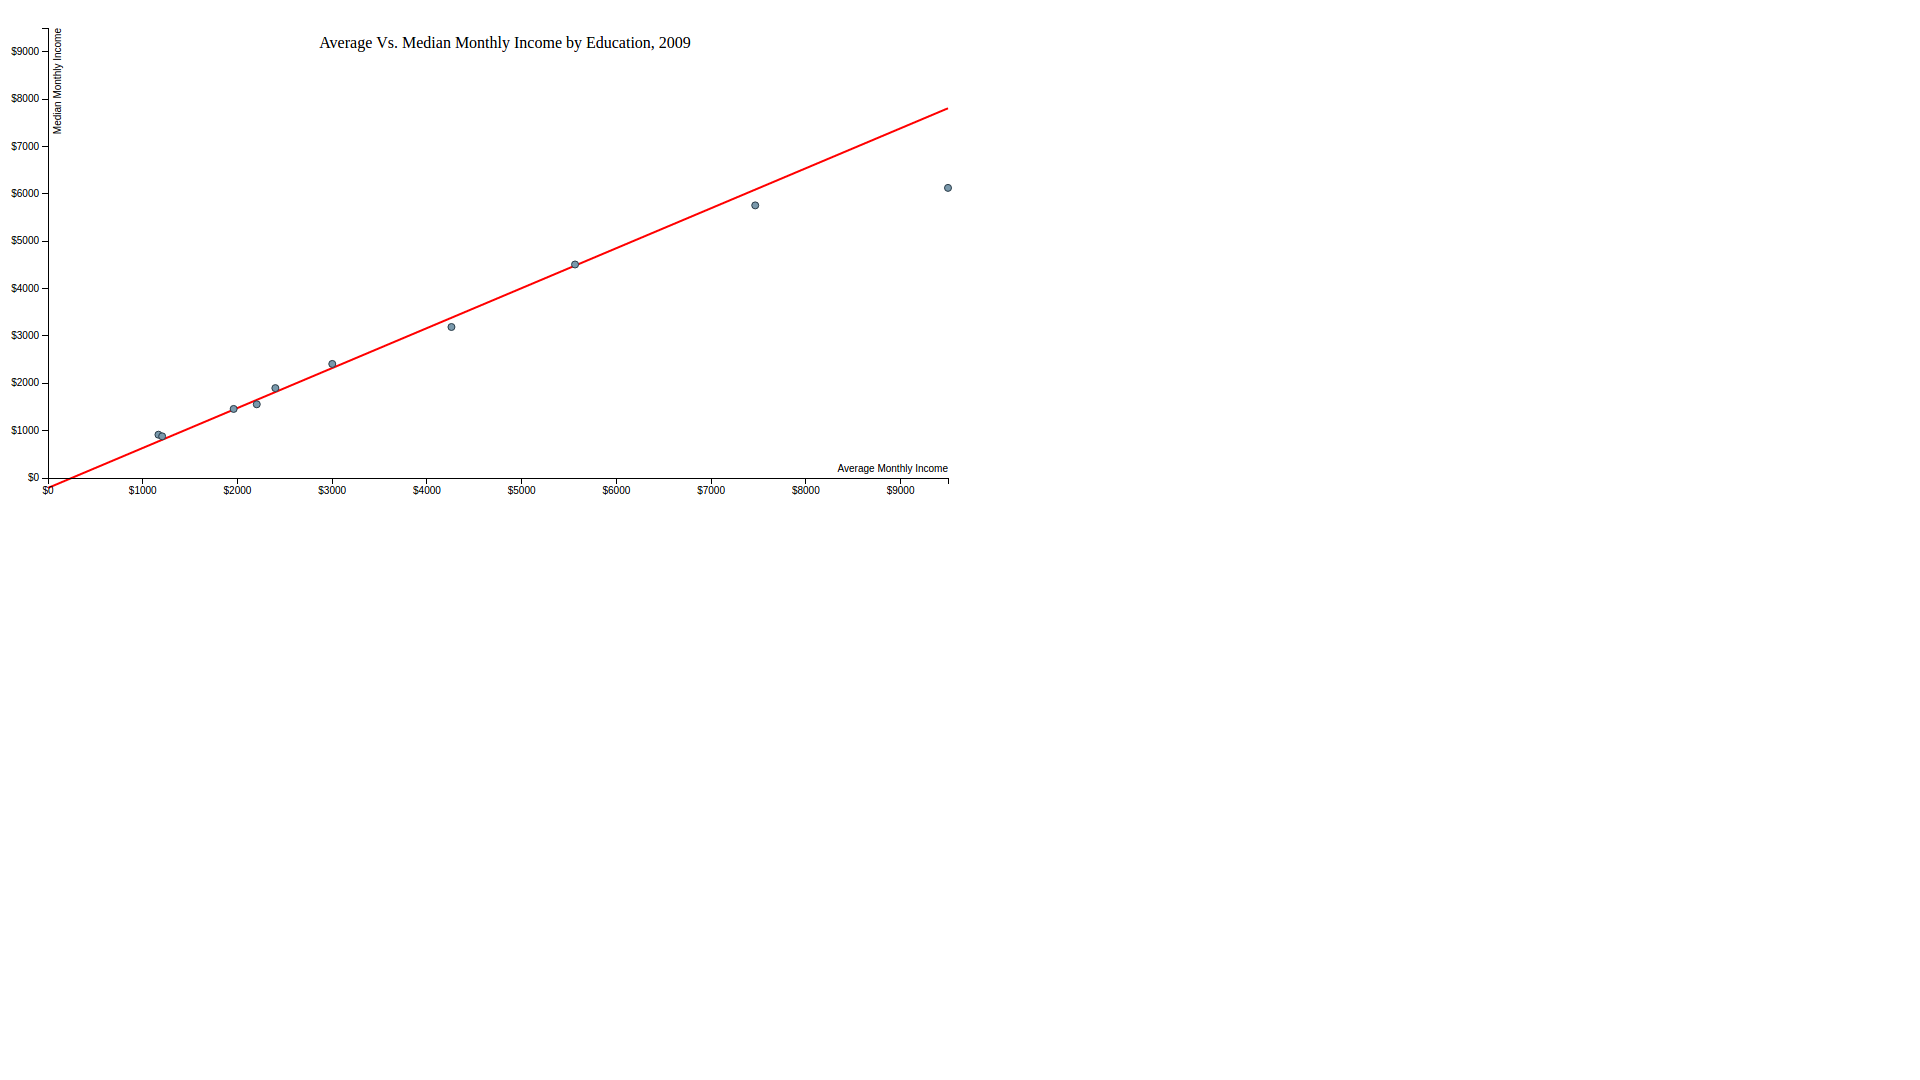
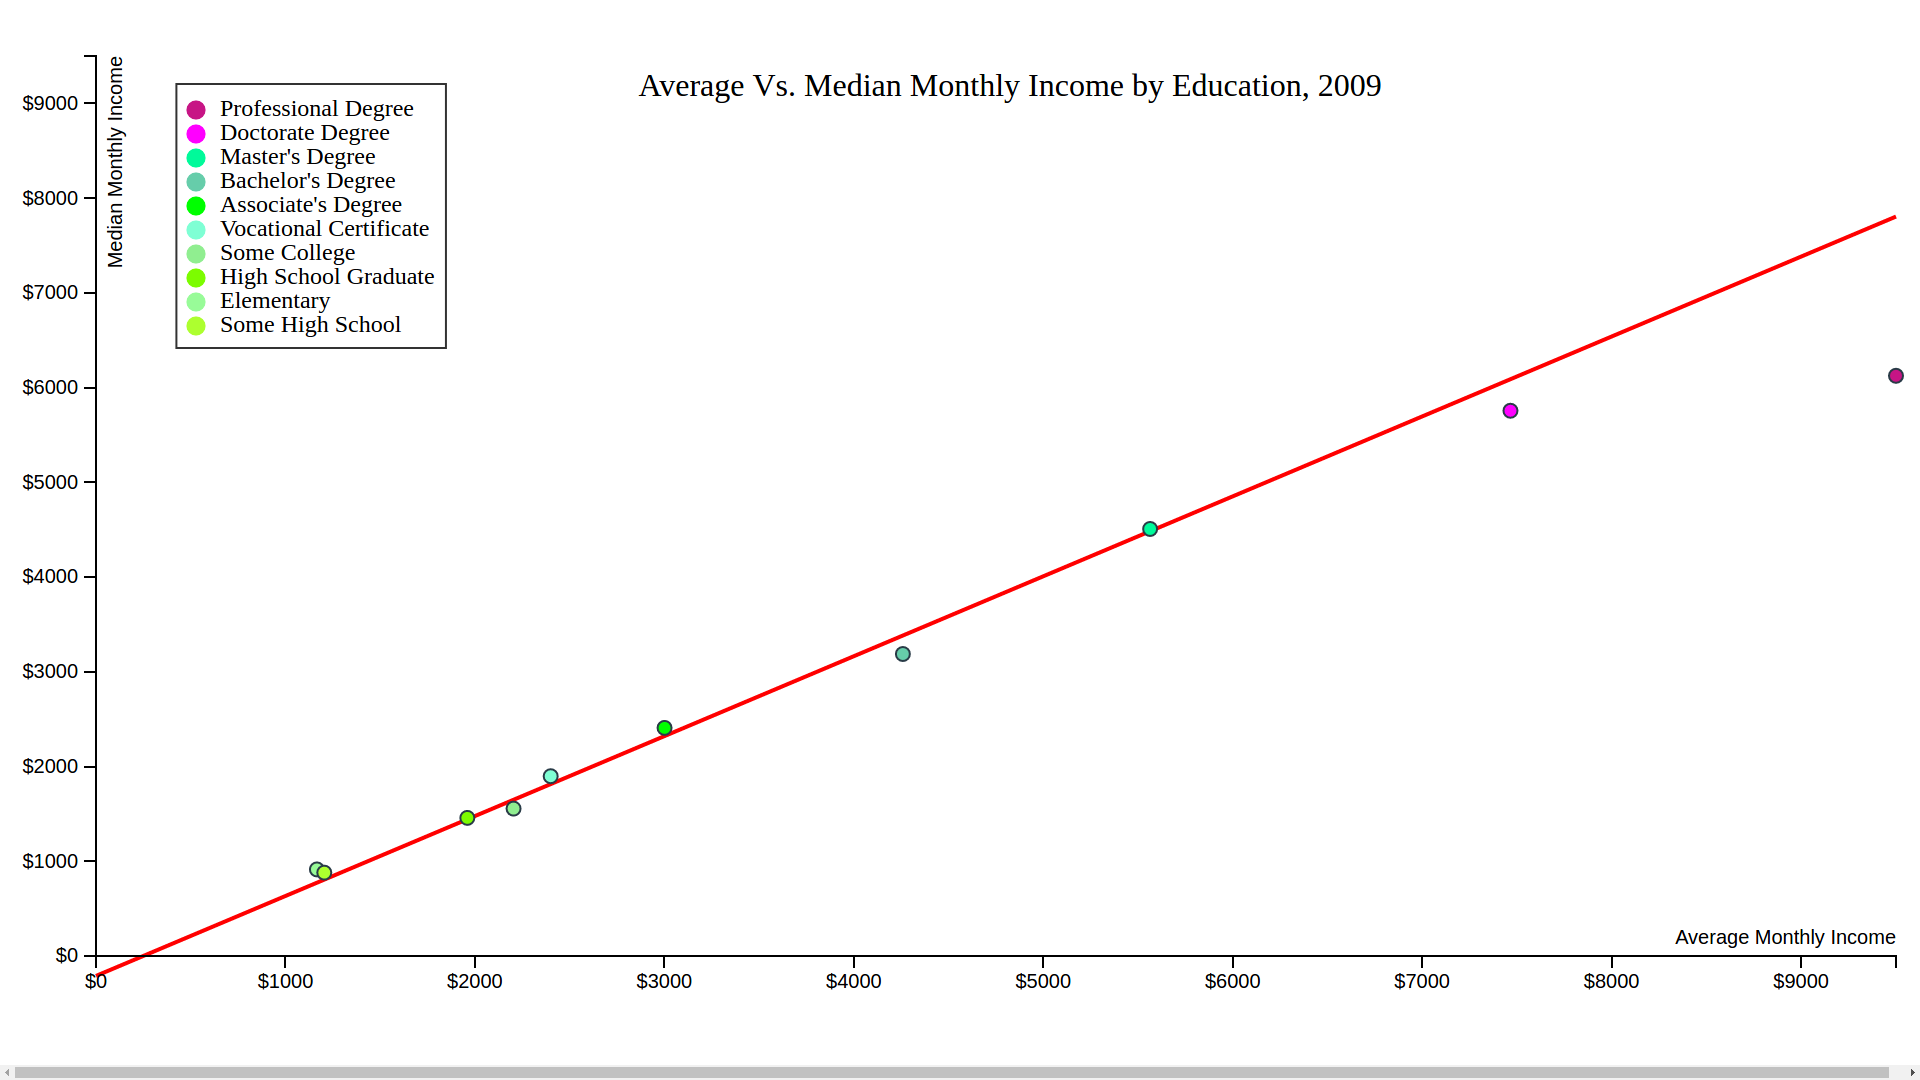
Described correlations. Images enlarged.

diff --git a/d3.legend.js b/d3.legend.js
@@ -1,0 +1,55 @@
+// d3.legend.js 
+// (C) 2012 ziggy.jonsson.nyc@gmail.com
+// MIT licence
+
+(function() {
+d3.legend = function(g) {
+  g.each(function() {
+    var g= d3.select(this),
+        items = {},
+        svg = d3.select(g.property("nearestViewportElement")),
+        legendPadding = g.attr("data-style-padding") || 5,
+        lb = g.selectAll(".legend-box").data([true]),
+        li = g.selectAll(".legend-items").data([true])
+
+    lb.enter().append("rect").classed("legend-box",true)
+    li.enter().append("g").classed("legend-items",true)
+
+    svg.selectAll("[data-legend]").each(function() {
+        var self = d3.select(this)
+        items[self.attr("data-legend")] = {
+          pos : self.attr("data-legend-pos") || this.getBBox().y,
+          color : self.attr("data-legend-color") != undefined ? self.attr("data-legend-color") : self.style("fill") != 'none' ? self.style("fill") : self.style("stroke") 
+        }
+      })
+
+    items = d3.entries(items).sort(function(a,b) { return a.value.pos-b.value.pos})
+
+    
+    li.selectAll("text")
+        .data(items,function(d) { return d.key})
+        .call(function(d) { d.enter().append("text")})
+        .call(function(d) { d.exit().remove()})
+        .attr("y",function(d,i) { return i+"em"})
+        .attr("x","1em")
+        .text(function(d) { ;return d.key})
+    
+    li.selectAll("circle")
+        .data(items,function(d) { return d.key})
+        .call(function(d) { d.enter().append("circle")})
+        .call(function(d) { d.exit().remove()})
+        .attr("cy",function(d,i) { return i-0.25+"em"})
+        .attr("cx",0)
+        .attr("r","0.4em")
+        .style("fill",function(d) { console.log(d.value.color);return d.value.color})  
+    
+    // Reposition and resize the box
+    var lbbox = li[0][0].getBBox()  
+    lb.attr("x",(lbbox.x-legendPadding))
+        .attr("y",(lbbox.y-legendPadding))
+        .attr("height",(lbbox.height+2*legendPadding))
+        .attr("width",(lbbox.width+2*legendPadding))
+  })
+  return g
+}
+})()

diff --git a/submission/chart 2a and 2j: correlation between average and median income/d3.legend.js b/submission/chart 2a and 2j: correlation between average and median income/d3.legend.js
@@ -1,0 +1,55 @@
+// d3.legend.js 
+// (C) 2012 ziggy.jonsson.nyc@gmail.com
+// MIT licence
+
+(function() {
+d3.legend = function(g) {
+  g.each(function() {
+    var g= d3.select(this),
+        items = {},
+        svg = d3.select(g.property("nearestViewportElement")),
+        legendPadding = g.attr("data-style-padding") || 5,
+        lb = g.selectAll(".legend-box").data([true]),
+        li = g.selectAll(".legend-items").data([true])
+
+    lb.enter().append("rect").classed("legend-box",true)
+    li.enter().append("g").classed("legend-items",true)
+
+    svg.selectAll("[data-legend]").each(function() {
+        var self = d3.select(this)
+        items[self.attr("data-legend")] = {
+          pos : self.attr("data-legend-pos") || this.getBBox().y,
+          color : self.attr("data-legend-color") != undefined ? self.attr("data-legend-color") : self.style("fill") != 'none' ? self.style("fill") : self.style("stroke") 
+        }
+      })
+
+    items = d3.entries(items).sort(function(a,b) { return a.value.pos-b.value.pos})
+
+    
+    li.selectAll("text")
+        .data(items,function(d) { return d.key})
+        .call(function(d) { d.enter().append("text")})
+        .call(function(d) { d.exit().remove()})
+        .attr("y",function(d,i) { return i+"em"})
+        .attr("x","1em")
+        .text(function(d) { ;return d.key})
+    
+    li.selectAll("circle")
+        .data(items,function(d) { return d.key})
+        .call(function(d) { d.enter().append("circle")})
+        .call(function(d) { d.exit().remove()})
+        .attr("cy",function(d,i) { return i-0.25+"em"})
+        .attr("cx",0)
+        .attr("r","0.4em")
+        .style("fill",function(d) { console.log(d.value.color);return d.value.color})  
+    
+    // Reposition and resize the box
+    var lbbox = li[0][0].getBBox()  
+    lb.attr("x",(lbbox.x-legendPadding))
+        .attr("y",(lbbox.y-legendPadding))
+        .attr("height",(lbbox.height+2*legendPadding))
+        .attr("width",(lbbox.width+2*legendPadding))
+  })
+  return g
+}
+})()

diff --git a/submission/chart 2a: education vs average income/table_2a_stats.py b/submission/chart 2a: education vs average income/table_2a_stats.py
@@ -1,0 +1,29 @@
+import csv
+import numpy as np
+
+# Import census data from CSV
+with open('table2a_edu_income _python.csv', 'r') as f:
+	my_reader = csv.reader(f)
+	data = list(my_reader)
+
+# Find mean
+
+mean = 0
+
+for i in range(0, len(data)):
+	mean = mean + int(data[i][1])
+
+mean = mean / (len(data))
+
+print ('Mean: ' + repr(mean))
+
+# Find standard deviation
+
+stdData = []
+
+for i in range (0, len(data)):
+	stdData.append(data[i][1])
+
+stdData = list(map(int, stdData))
+stdDev = round(np.std(stdData), 3)
+print ('Standard deviation: ' + repr(stdDev))

diff --git a/submission/chart 2j: education vs median income/table_2j_stats.py b/submission/chart 2j: education vs median income/table_2j_stats.py
@@ -1,0 +1,29 @@
+import csv
+import numpy as np
+
+# Import census data from CSV
+with open('table2j_edu_income _python.csv', 'r') as f:
+	my_reader = csv.reader(f)
+	data = list(my_reader)
+
+# Find mean
+
+mean = 0
+
+for i in range(0, len(data)):
+	mean = mean + int(data[i][1])
+
+mean = mean / (len(data))
+
+print ('Mean: ' + repr(mean))
+
+# Find standard deviation
+
+stdData = []
+
+for i in range (0, len(data)):
+	stdData.append(data[i][1])
+
+stdData = list(map(int, stdData))
+stdDev = round(np.std(stdData), 3)
+print ('Standard deviation: ' + repr(stdDev))
